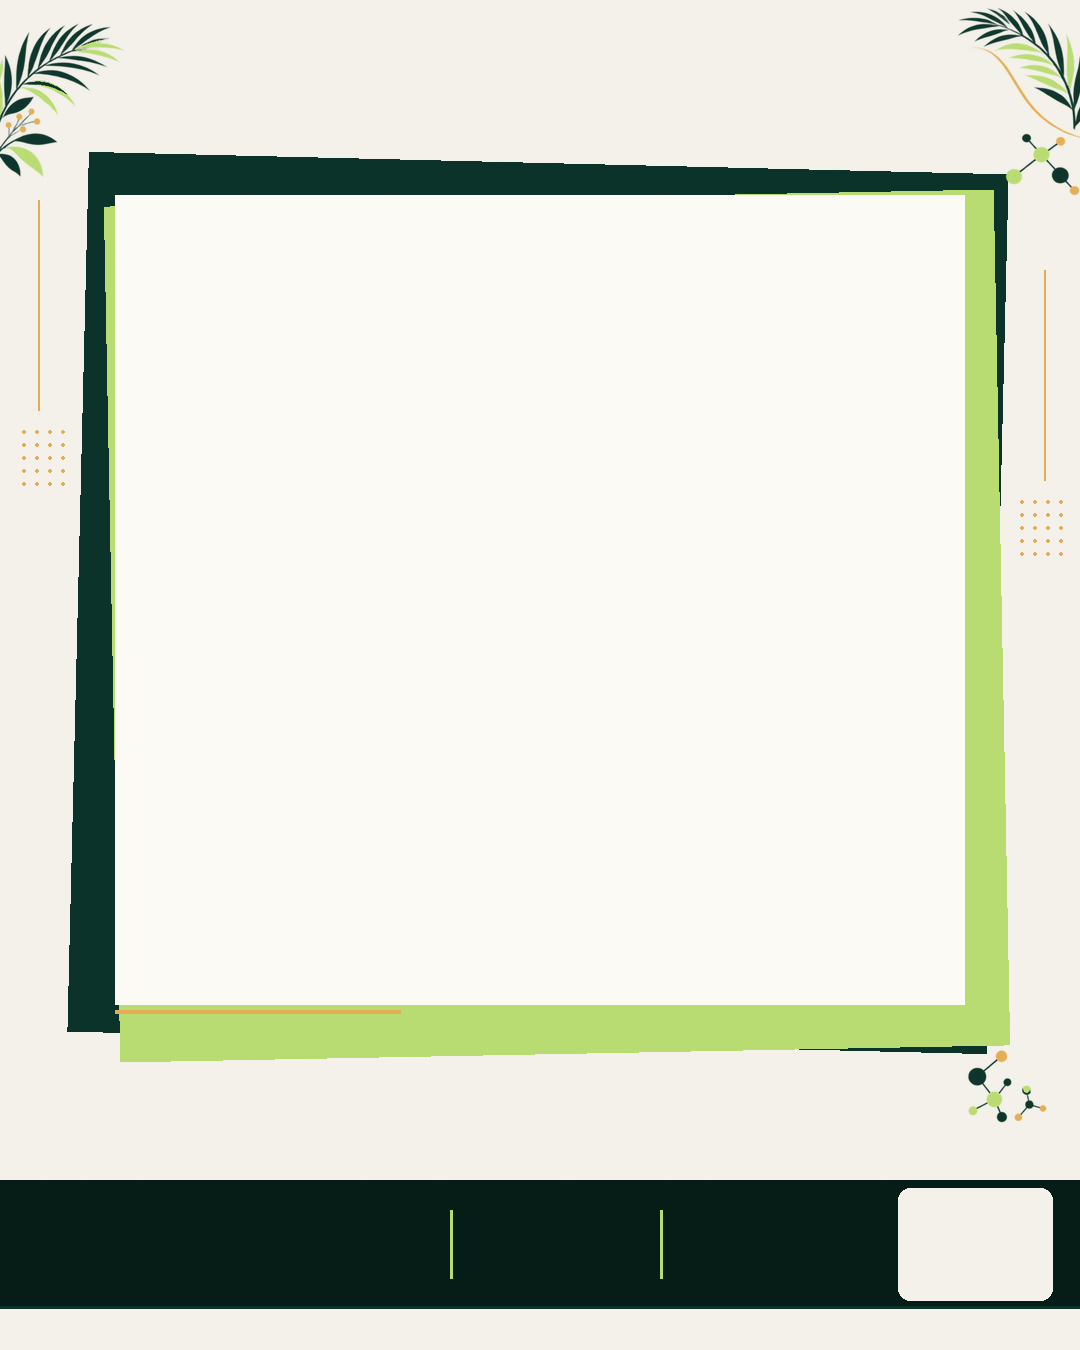
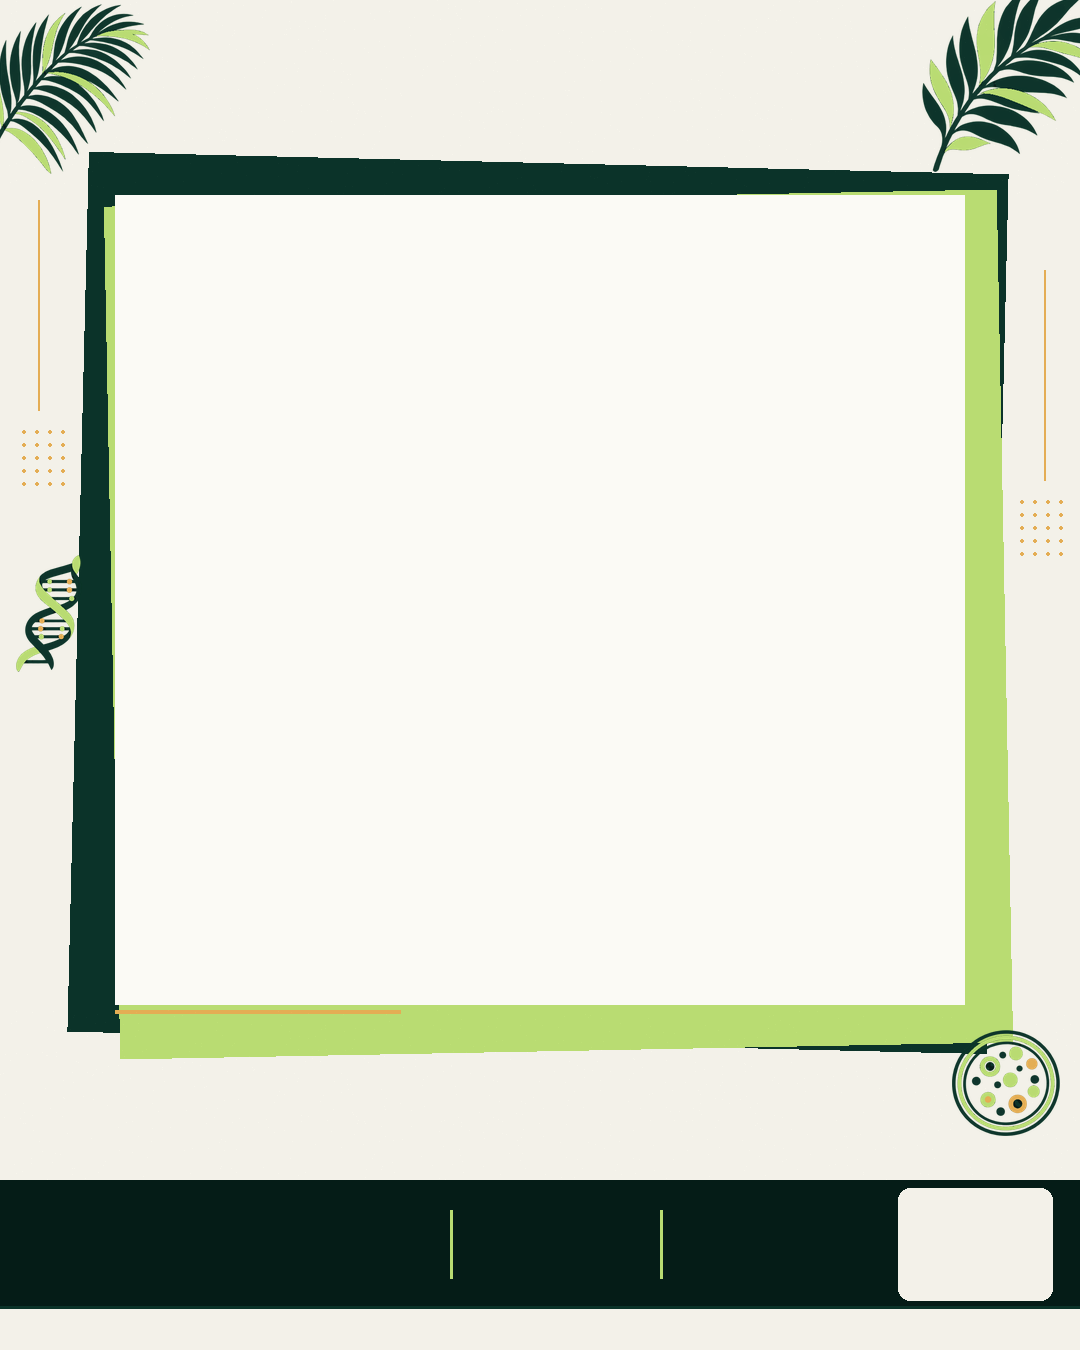
feat(artwork): richer motif set for the speaker-reveal template
Replaces the single three-motif source with a nine-motif sheet: two distinct
fronds so the photo's corners are not a mirrored stencil, a botanical sprig, a
DNA helix, a molecular cluster and lattice, a petri dish, glassware and a
microscopy field. Four are used by the 4:5 template; the rest are deliberately
spare, for the session-announce, countdown and sponsor families.

extract.py does the cleaning the generator cannot: the sheet arrives with a haze
of near-zero alpha that would defeat a bbox crop and show as grime over a
portrait, and with slightly off-palette greens.

The palette snap has to run in int32. A channel difference of 242 squares to
58564, which wraps negative in int16, so argmin picks the furthest colour
instead of the nearest - that mapped 55% of the sheet's solid pixels to cream
and rendered every frond white. Caught by looking at the rendered poster, so
compose.py now asserts the flat photo window and the clear face area rather
than trusting the eye next time.

diff --git a/registration/artwork/compose.py b/registration/artwork/compose.py
@@ -1,11 +1,13 @@
 #!/usr/bin/env python3
 """Compose the Bio Connect 4.0 speaker-reveal template artwork.
 
-The illustrated motifs (palm fronds, molecular node-and-connector clusters) come
-from the Codex-generated v1 overlay, which is what image generation is genuinely
-good at. The geometry - panels, bands, the photo window, the event bar - is laid
-out here instead, because exact pixel placement and true alpha are what image
-generation is bad at.
+The motifs come from motif-sheet.png, a 3x3 grid of generated illustrations -
+fronds, a botanical sprig, a DNA helix, molecular clusters, a petri dish,
+glassware, a microscopy field. Image generation is genuinely good at those.
+
+The geometry - panels, bands, the photo window, the event bar - is laid out here
+instead, because exact pixel placement, a flat photo window and a controlled
+alpha channel are the three things image generation is bad at.
 
 Outputs, both 1080x1350:
   backdrop-4x5.png  opaque, drawn below the portrait
@@ -23,26 +25,29 @@ CREAM, PAPER = (243, 241, 233), (251, 250, 245)
 # lands the face around the upper third without the operator having to reframe.
 PX0, PY0, PX1, PY1 = 115, 195, 965, 1005
 
-SRC = Image.open("motifs-src.png").convert("RGBA")
+SHEET = Image.open("motif-sheet.png").convert("RGBA")
+CELL = SHEET.width // 3
+# Reading order of the sheet's 3x3 grid.
+MOTIFS = ["frond-arching", "frond-full", "sprig-berries",
+          "dna-helix", "molecule-cluster", "molecule-lattice",
+          "petri-dish", "glassware", "microscopy"]
 
 
-def motif(box, scale=1.0, angle=0):
-    """Lift one generated motif out of the source art by its alpha."""
-    part = SRC.crop(box)
-    if scale != 1.0:
-        part = part.resize((int(part.width * scale), int(part.height * scale)), Image.LANCZOS)
+def motif(name, size, flip=False, angle=0):
+    """Cut one motif from its grid cell, trimmed to its own alpha bounds."""
+    i = MOTIFS.index(name)
+    row, col = divmod(i, 3)
+    cell = SHEET.crop((col * CELL, row * CELL, (col + 1) * CELL, (row + 1) * CELL))
+    art = cell.crop(cell.getchannel("A").getbbox())
+    if flip:
+        art = art.transpose(Image.FLIP_LEFT_RIGHT)
     if angle:
-        part = part.rotate(angle, expand=True, resample=Image.BICUBIC)
-    return part
-
-
-FROND_L = motif((20, 160, 240, 420))
-FROND_R = motif((835, 160, 1075, 475))
-MOLECULE = motif((30, 805, 210, 965))
+        art = art.rotate(angle, expand=True, resample=Image.BICUBIC)
+    return art.resize(size, Image.LANCZOS)
 
 
 def grain(img, zone, density=260):
-    """Sparse paper grain. Deterministic so reruns are byte-identical."""
+    """Sparse paper grain. Seeded, so reruns are byte-identical."""
     rng = random.Random(20260918)
     px = img.load()
     x0, y0, x1, y1 = zone
@@ -52,8 +57,8 @@ def grain(img, zone, density=260):
         px[x, y] = (min(255, r + 4), min(255, g + 4), min(255, b + 3))
 
 
-def rounded(d, box, radius, fill):
-    d.rounded_rectangle(box, radius=radius, fill=fill)
+def stamp(img, art, xy):
+    img.paste(art, xy, art)
 
 
 # ---------------------------------------------------------------- backdrop
@@ -62,12 +67,11 @@ d = ImageDraw.Draw(bg)
 
 # Stacked panels behind the portrait, peeking past every edge so the photo
 # reads as mounted on cards rather than pasted onto the page.
-forest_panel = Image.new("RGBA", (PX1 - PX0 + 70, PY1 - PY0 + 70), FOREST + (255,))
-bg.paste(forest_panel.rotate(-1.4, expand=True, resample=Image.BICUBIC),
-         (PX0 - 48, PY0 - 44), forest_panel.rotate(-1.4, expand=True, resample=Image.BICUBIC))
-lime_panel = Image.new("RGBA", (PX1 - PX0 + 40, PY1 - PY0 + 46), LIME + (255,))
-bg.paste(lime_panel.rotate(1.1, expand=True, resample=Image.BICUBIC),
-         (PX0 - 12, PY0 - 6), lime_panel.rotate(1.1, expand=True, resample=Image.BICUBIC))
+for colour, pad, tilt, at in ((FOREST, 70, -1.4, (PX0 - 48, PY0 - 44)),
+                              (LIME, 43, 1.1, (PX0 - 12, PY0 - 6))):
+    panel = Image.new("RGBA", (PX1 - PX0 + pad, PY1 - PY0 + pad), colour + (255,))
+    panel = panel.rotate(tilt, expand=True, resample=Image.BICUBIC)
+    bg.paste(panel, at, panel)
 
 # The window itself: flat, so nothing shows through a transparent-edged photo.
 d.rectangle([PX0, PY0, PX1 - 1, PY1 - 1], fill=PAPER)
@@ -79,7 +83,7 @@ d.rectangle([PX0, PY0, PX1 - 1, PY1 - 1], fill=PAPER)
 d.rectangle([0, 1180, W, 1308], fill=DEEP)
 for x in (450, 660):
     d.rectangle([x, 1210, x + 2, 1278], fill=LIME)
-rounded(d, [898, 1188, 1052, 1300], 12, CREAM)
+d.rounded_rectangle([898, 1188, 1052, 1300], radius=12, fill=CREAM)
 
 # Footer strip for the website address.
 d.rectangle([0, 1308, W, H], fill=CREAM)
@@ -97,12 +101,13 @@ for gx, gy in ((22, 430), (1020, 500)):
 d.rectangle([38, 200, 39, 410], fill=GOLD)
 d.rectangle([1044, 270, 1045, 480], fill=GOLD)
 
-# Motifs where they are actually visible: flanking the logo strip, and in the
-# caption zone's left margin. Nothing hidden behind the window.
-for art, xy in ((FROND_L.resize((150, 178), Image.LANCZOS), (-18, 8)),
-                (FROND_R.resize((160, 210), Image.LANCZOS), (938, -6)),
-                (MOLECULE.resize((104, 92), Image.LANCZOS), (958, 1040))):
-    bg.paste(art, xy, art)
+# Motifs where they are actually visible - flanking the logo strip and in the
+# margins. Two different fronds rather than one mirrored, so the corners do not
+# read as a symmetrical stencil. Nothing goes behind the photo window.
+stamp(bg, motif("frond-arching", (172, 170)), (-22, 4))
+stamp(bg, motif("frond-full", (185, 182), flip=True), (922, -10))
+stamp(bg, motif("dna-helix", (66, 117)), (16, 555))
+stamp(bg, motif("petri-dish", (108, 106)), (952, 1030))
 
 grain(bg, (0, 0, W, 195))
 grain(bg, (0, 1010, W, 1180))
@@ -111,30 +116,37 @@ bg.save("backdrop-4x5.png")
 # ----------------------------------------------------------------- overlay
 ov = Image.new("RGBA", (W, H), (0, 0, 0, 0))
 
-# Fronds entering over the portrait's top corners, from the generated art.
-tl = FROND_L.resize((250, 296), Image.LANCZOS)
-tr = FROND_R.resize((265, 348), Image.LANCZOS)
-ov.paste(tl, (60, 150), tl)
-ov.paste(tr, (790, 140), tr)
-mol = MOLECULE.resize((150, 133), Image.LANCZOS)
-ov.paste(mol, (108, 770), mol)
+# Fronds and molecules crossing in front of the portrait's corners. This layer
+# is why a template is a stack and not a flat background.
+stamp(ov, motif("frond-arching", (244, 242)), (52, 150))
+stamp(ov, motif("frond-full", (272, 268), flip=True), (788, 142))
+stamp(ov, motif("molecule-cluster", (152, 145)), (105, 758))
+stamp(ov, motif("molecule-lattice", (112, 127)), (838, 405))
 
-# The caption band. This is the element the brief called out: like the
-# reference's yellow band it straddles the photo's bottom edge, so it can only
-# live on the layer above the portrait.
+# The caption band. Like the reference poster's yellow band it straddles the
+# photo's bottom edge, so it can only live on the layer above the portrait.
 od = ImageDraw.Draw(ov)
 od.rectangle([PX0, 920, PX1 - 1, 1159], fill=GOLD + (255,))
 od.rectangle([PX0, 920, PX0 + 8, 1159], fill=FOREST + (255,))
 
 ov.save("overlay-4x5.png")
 
+# ------------------------------------------------------------------ checks
 for name in ("backdrop-4x5.png", "overlay-4x5.png"):
     im = Image.open(name)
     assert im.size == (W, H), (name, im.size)
     print(f"{name}  {im.size}  {im.mode}")
 
-a = Image.open("overlay-4x5.png").getchannel("A")
-clear = sum(1 for v in a.getdata() if v == 0)
+alpha = Image.open("overlay-4x5.png").getchannel("A")
+clear = sum(1 for v in alpha.getdata() if v == 0)
 print(f"overlay transparent: {100 * clear / (W * H):.1f}%")
+
+# The speaker's face must never be under a decoration.
 face = Image.open("overlay-4x5.png").crop((300, 240, 780, 880)).getchannel("A")
-print("face area fully clear:", max(face.getdata()) == 0)
+assert max(face.getdata()) == 0, "overlay covers the face area"
+print("face area fully clear: True")
+
+# The window must stay one flat colour, or a photo with soft edges shows grime.
+win = Image.open("backdrop-4x5.png").crop((PX0, PY0, PX1, PY1))
+assert len(win.getcolors(maxcolors=8) or [(0, 0)]) == 1, "photo window is not flat"
+print("photo window flat: True")

diff --git a/registration/artwork/extract.py b/registration/artwork/extract.py
@@ -1,0 +1,99 @@
+#!/usr/bin/env python3
+"""Cut the nine motifs out of the generated sheet into individual PNGs.
+
+The generator lays them on a 3x3 grid, so the cells are known; the work here is
+cleaning the stray low-alpha pixels it leaves behind, snapping the fills to the
+exact brand palette, and confirming no two motifs merged into one blob.
+"""
+from PIL import Image
+import numpy as np
+
+BRAND = np.array([
+    (11, 51, 41),    # forest
+    (5, 28, 23),     # deep forest
+    (185, 220, 114), # lime
+    (228, 173, 84),  # gold
+    (243, 241, 233), # cream
+    (251, 250, 245), # paper
+    (16, 32, 27),    # ink
+], dtype=np.int16)
+
+NAMES = [
+    "frond-arching", "frond-full", "sprig-berries",
+    "dna-helix", "molecule-cluster", "molecule-lattice",
+    "petri-dish", "glassware", "microscopy",
+]
+
+sheet = Image.open("raw-sheet.png").convert("RGBA")
+a = np.array(sheet).astype(np.int16)
+
+# The generator leaves a haze of near-zero alpha across the background, which
+# would defeat a bbox crop and show as grime over a photograph.
+a[..., 3][a[..., 3] < 20] = 0
+
+# Snap solid fills to the exact palette. Only fully-opaque pixels: partially
+# transparent ones are anti-aliased edges, and quantising those would leave
+# hard jaggies where the motif meets the photograph.
+solid = a[..., 3] >= 200
+# int32 throughout: a channel difference of 242 squares to 58564, which wraps
+# negative in int16 and makes argmin pick the *furthest* colour. That silently
+# mapped every dark green to cream.
+rgb = a[solid][:, :3].astype(np.int32)
+dist = ((rgb[:, None, :] - BRAND.astype(np.int32)[None, :, :]) ** 2).sum(axis=2)
+assert dist.min() >= 0, "distance overflowed"
+nearest = np.argmin(dist, axis=1)
+a[solid] = np.concatenate([BRAND[nearest], a[solid][:, 3:]], axis=1)
+
+cleaned = Image.fromarray(a.astype(np.uint8), "RGBA")
+cleaned.save("motif-sheet.png")
+
+H, W = a.shape[0], a.shape[1]
+ch, cw = H // 3, W // 3
+print(f"sheet {W}x{H}, cells {cw}x{ch}\n")
+
+def components(mask):
+    """Count connected blobs with a flood fill, to catch merged motifs."""
+    seen = np.zeros_like(mask, dtype=bool)
+    n = 0
+    hs, ws = mask.shape
+    for sy in range(hs):
+        for sx in range(ws):
+            if not mask[sy, sx] or seen[sy, sx]:
+                continue
+            n += 1
+            stack = [(sy, sx)]
+            seen[sy, sx] = True
+            while stack:
+                y, x = stack.pop()
+                for dy, dx in ((1, 0), (-1, 0), (0, 1), (0, -1)):
+                    ny, nx = y + dy, x + dx
+                    if 0 <= ny < hs and 0 <= nx < ws and mask[ny, nx] and not seen[ny, nx]:
+                        seen[ny, nx] = True
+                        stack.append((ny, nx))
+    return n
+
+for i, name in enumerate(NAMES):
+    row, col = divmod(i, 3)
+    cell = cleaned.crop((col * cw, row * ch, (col + 1) * cw, (row + 1) * ch))
+    alpha = np.array(cell.getchannel("A"))
+
+    # Does this motif touch the cell edge? If so it may be clipped or merged
+    # with its neighbour, which is the one failure the brief warned about.
+    edge = max(alpha[0].max(), alpha[-1].max(), alpha[:, 0].max(), alpha[:, -1].max())
+
+    ys, xs = np.nonzero(alpha)
+    if len(ys) == 0:
+        print(f"{name:18} EMPTY CELL")
+        continue
+    box = (xs.min(), ys.min(), xs.max() + 1, ys.max() + 1)
+    motif = cell.crop(box)
+    motif.save(f"motif-{i + 1:02d}-{name}.png")
+
+    # Downsample before the flood fill; full resolution is needlessly slow and
+    # a merge would survive the downsample anyway.
+    small = np.array(motif.getchannel("A").resize((motif.width // 4, motif.height // 4))) > 40
+    blobs = components(small)
+    fill = 100 * (alpha > 0).mean()
+    print(f"{name:18} {motif.width:3}x{motif.height:3}  fill {fill:4.1f}%  "
+          f"blobs {blobs:2}  edge-alpha {edge:3}"
+          f"{'  <-- TOUCHES CELL EDGE' if edge > 40 else ''}")

diff --git a/registration/artwork/README.md b/registration/artwork/README.md
@@ -10,26 +10,51 @@ than a one-off upload nobody can regenerate.
 
 | File | |
 |---|---|
-| `motifs-src.png` | the generated illustration this is cut from: flat palm fronds and molecular node-and-connector clusters, brand palette, transparent |
-| `compose.py` | builds the two template layers from `motifs-src.png` |
+| `motif-sheet.png` | the parts catalogue: nine motifs on a 3x3 grid, transparent, exact brand palette |
+| `compose.py` | builds the two template layers from `motif-sheet.png` |
 | `backdrop-4x5.png` | 1080x1350 opaque, drawn **below** the portrait |
 | `overlay-4x5.png` | 1080x1350 RGBA, drawn **above** the portrait |
 | `speaker-reveal-4x5.json` | the template spec, with the two asset ids left as placeholders |
 
-`motifs-src.png` was produced with OpenAI image generation, the same route as
-`assets/hero-biotech.webp` on the marketing site.
-The geometry is composed in `compose.py` instead of being generated, because
-exact pixel placement, a flat photo window and a real alpha channel are the three
-things image generation does badly.
-Regenerate the layers from `motifs-src.png` rather than editing the PNGs by hand:
+`motif-sheet.png` was produced with OpenAI image generation, the same route as
+`assets/hero-biotech.webp` on the marketing site. Its nine cells, in reading
+order, are: an arching palm frond, a fuller frond angled the other way, a
+botanical sprig with gold berries, a DNA helix fragment, a molecular
+node-and-connector cluster, a hexagonal molecular lattice, a petri dish, flask
+and pipette glassware, and a microscopy cell field. `compose.py` cuts each one
+from its cell and trims it to its own alpha bounds, so adding a motif to the
+sheet makes it available by name.
+
+Only four of the nine are used by the 4:5 speaker reveal. The sprig, glassware,
+microscopy field and one molecule are spare, deliberately - they are there for
+the session-announce, countdown and sponsor families.
+
+The division of labour is the point: **generate the illustration, compose the
+geometry.** Exact pixel placement, a flat photo window and a controlled alpha
+channel are the three things image generation is reliably bad at, so the panels,
+bands, event bar and photo window are drawn in `compose.py`. Asking a generator
+for the whole poster produces garbled text and a photo window you cannot use.
+
+Two gotchas if you regenerate the sheet:
+
+- Motifs must not touch each other or a cell edge, or they cannot be cut apart.
+- The sheet arrives with a haze of near-zero alpha and slightly off-palette
+  greens. Both are cleaned before it lands here: alpha below 20 is zeroed, and
+  fully-opaque pixels are snapped to the nearest brand colour **in int32** -
+  a channel difference of 242 squares to 58564, which wraps negative in int16
+  and silently maps every dark green to cream.
+
+Regenerate the layers from `motif-sheet.png` rather than editing the PNGs by hand:
 
 ```sh
 cd registration/artwork && python3 compose.py
 ```
 
-It needs Pillow, is deterministic (the paper grain is seeded), and prints the
-dimensions plus a check that the portrait's face area is fully transparent on the
-overlay.
+It needs Pillow, is deterministic (the paper grain is seeded), and asserts the
+three things that quietly ruin a poster: the overlay must not cover the face
+area, the backdrop's photo window must stay one flat colour, and both layers
+must be exactly 1080x1350. The face assertion has already caught a frond that
+grew two pixels into the guard.
 
 ## Why two layers
 
